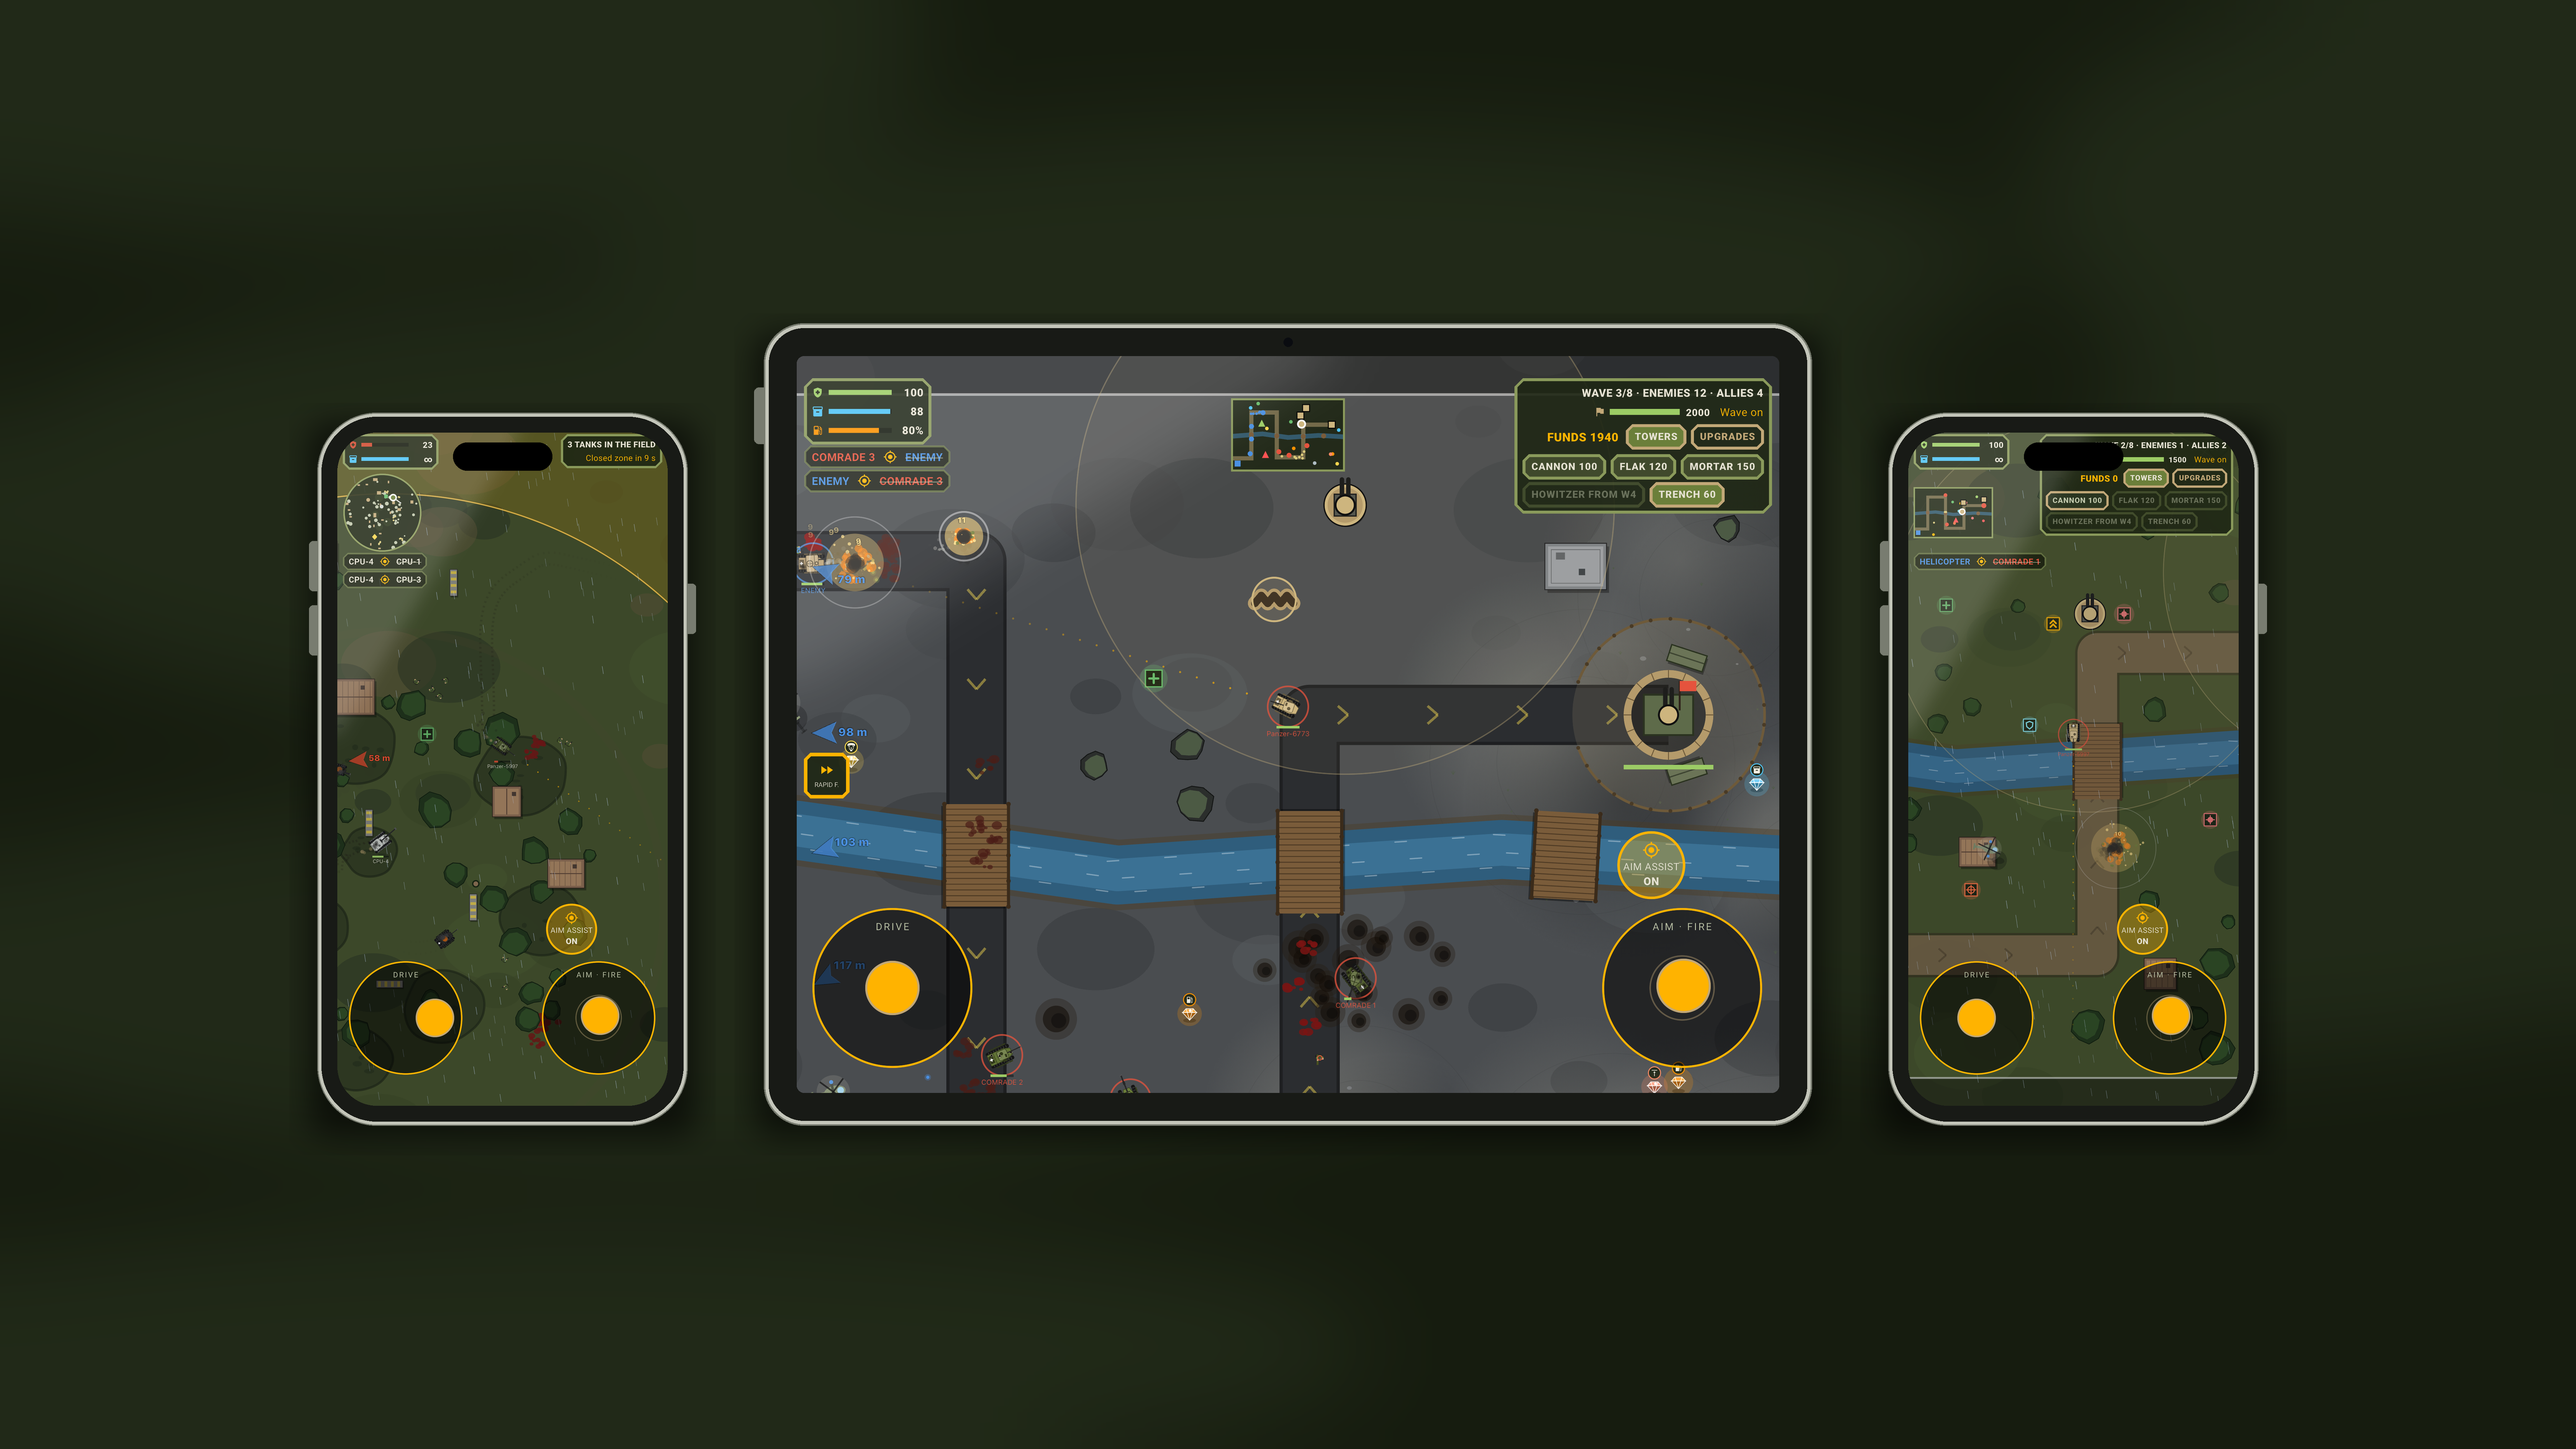
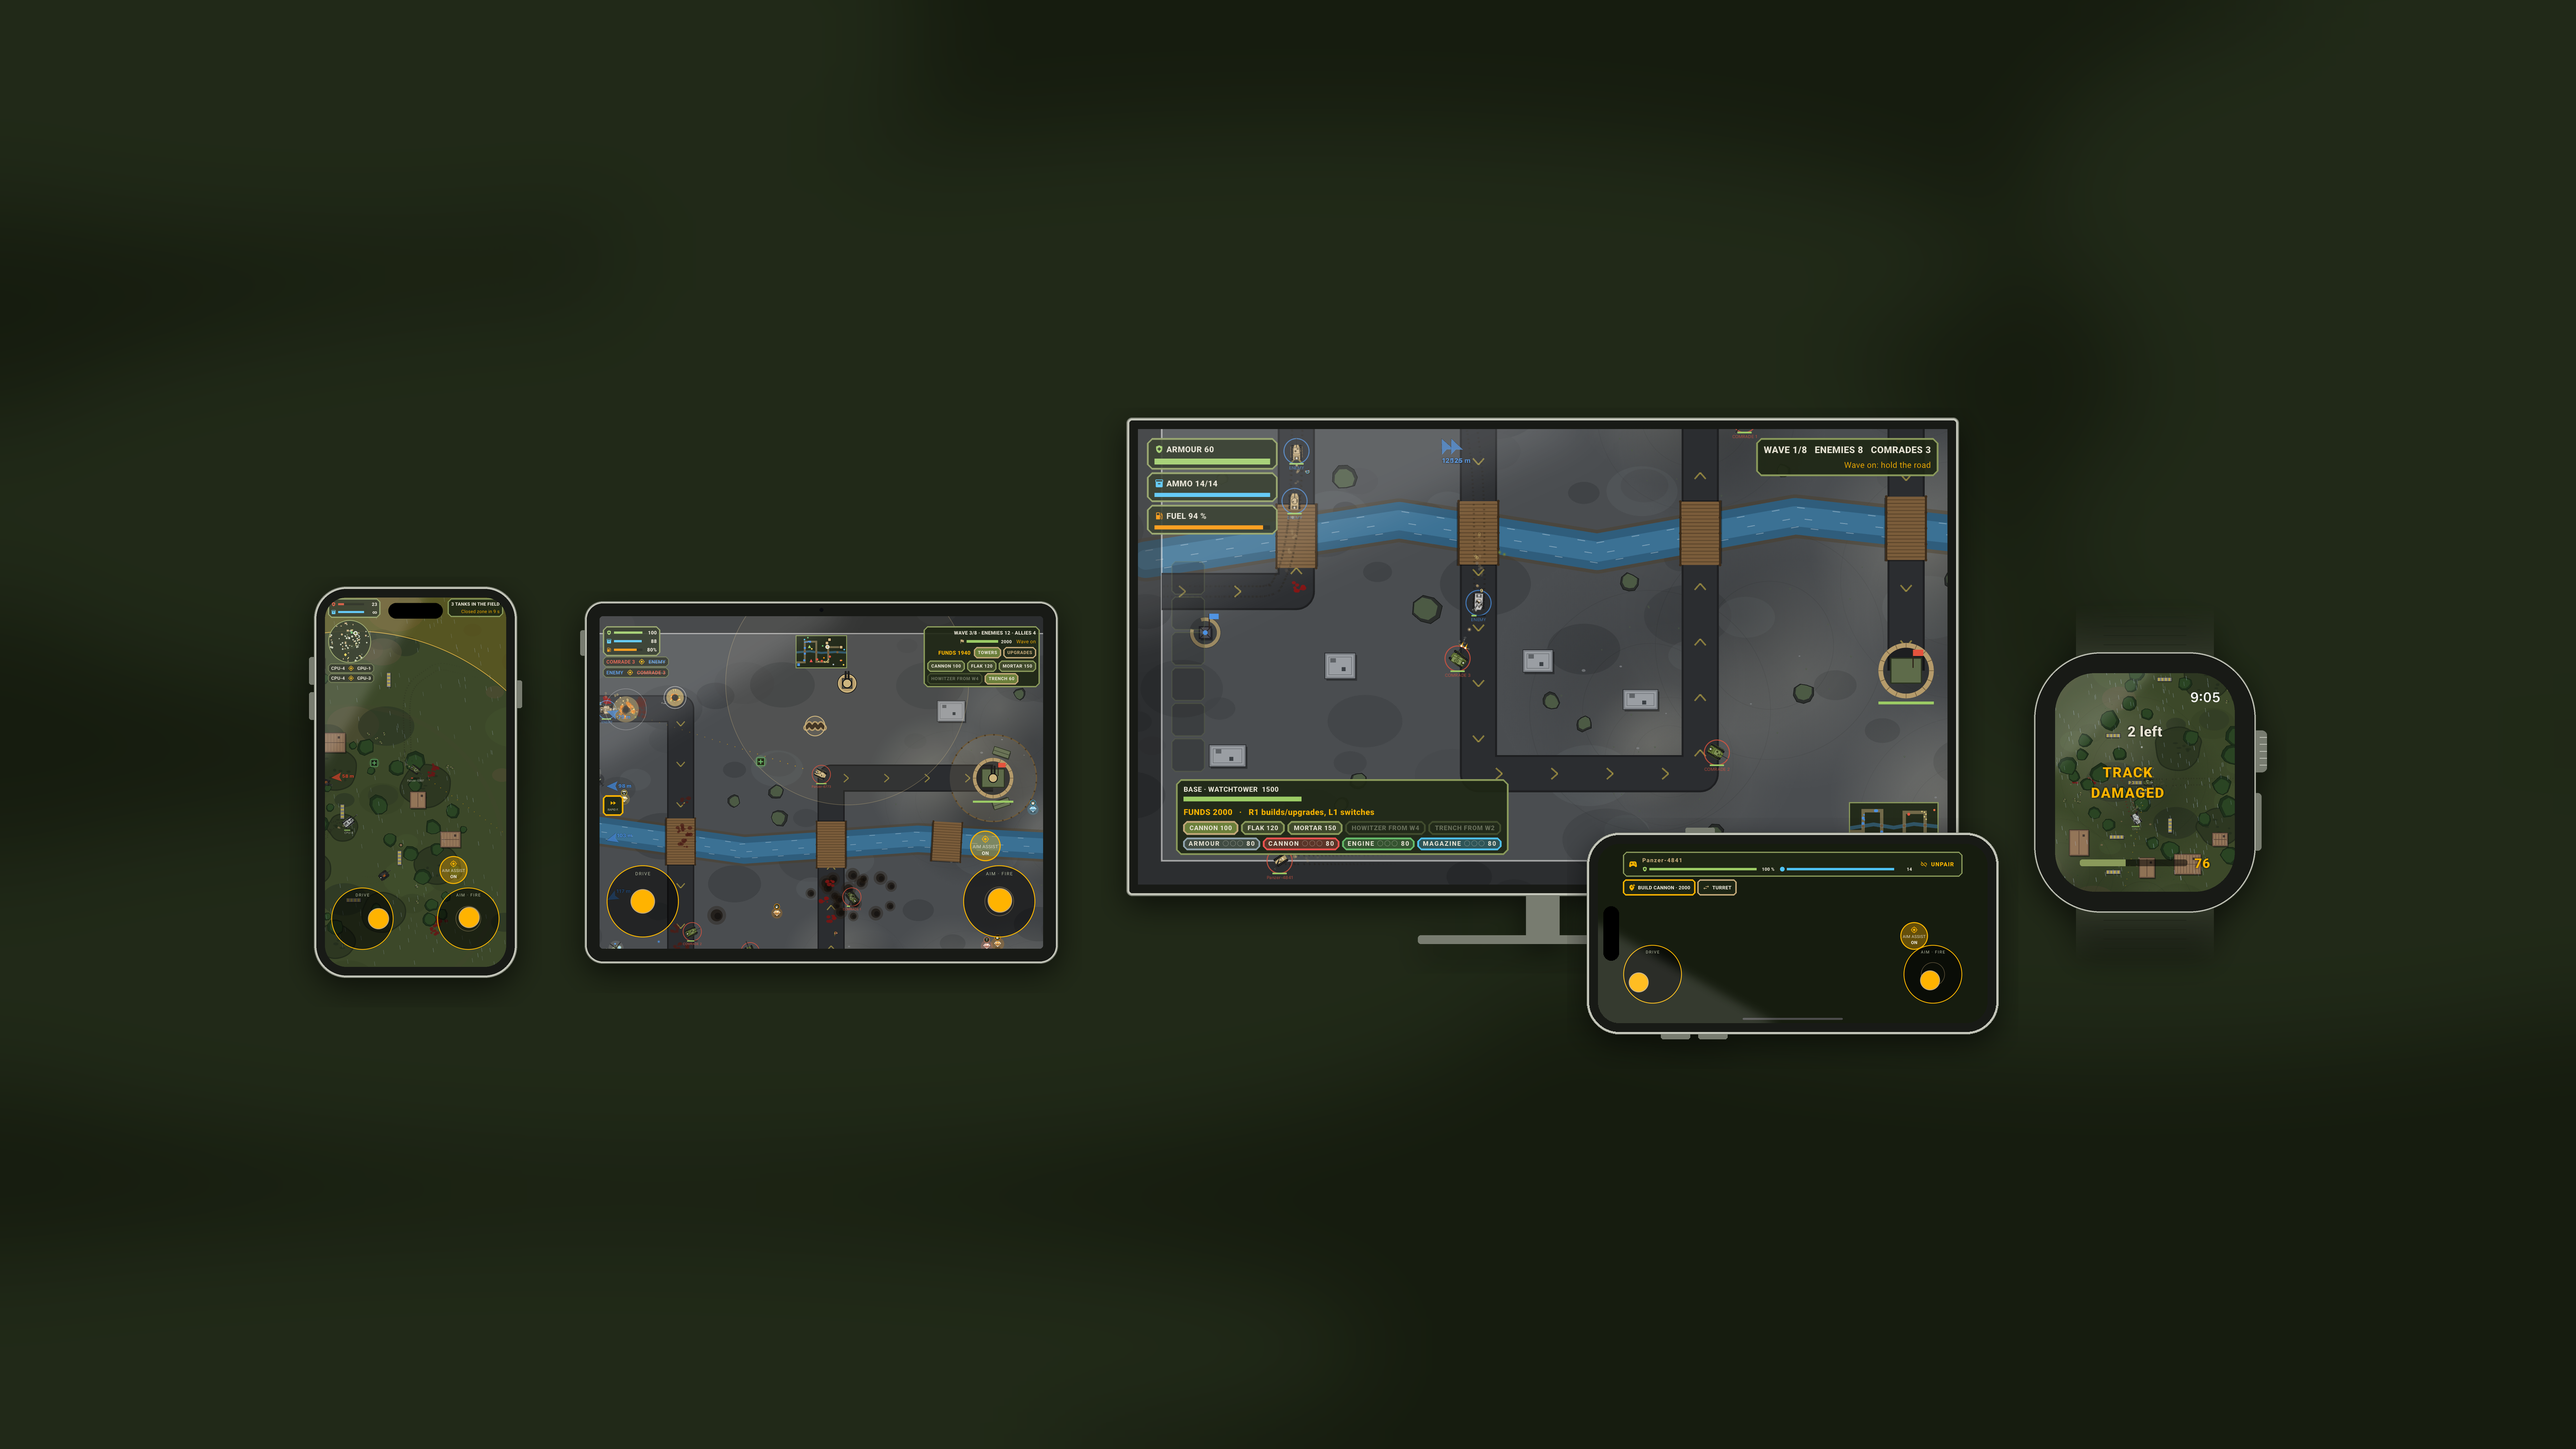
Show every screen the game runs on in the App Store header
The header now shows iPhone, iPad, the Apple TV with a phone in front of it
as the controller, and the watch. Shadows follow the devices, so the faded
watch band leaves no dark box behind. The tvOS runner can ignore the
Simulator's virtual gamepad like the iOS one.

Changed region(s): [[0.0932, 0.2183, 0.9014, 0.7797]]

diff --git a/tvos/Runner/GamepadPlugin.swift b/tvos/Runner/GamepadPlugin.swift
@@ -97,6 +97,12 @@ class GamepadPlugin: NSObject, FlutterPlugin, FlutterStreamHandler {
   /// Remote after them: the first one steers alone, the first two play a
   /// duel.
   private static func ordered() -> [GCController] {
+    // The Simulator brings a virtual gamepad of its own, which takes the
+    // first seat. With the user default ignoreGamepads set (store
+    // screenshots) the app plays as if none were there.
+    if UserDefaults.standard.bool(forKey: "ignoreGamepads") {
+      return []
+    }
     let all = GCController.controllers()
     return all.filter { $0.extendedGamepad != nil }
       + all.filter { $0.extendedGamepad == nil && $0.microGamepad != nil }

diff --git a/store/tool/compose.py b/store/tool/compose.py
@@ -184,8 +184,8 @@ def device(shot, height, kind):
     """Draws [shot] inside an illustrated [kind] ("phone", "tablet" or
     "watch"): a dark body with a metal edge, its buttons and a soft gloss on
     the glass, scaled so the whole device is [height] tall."""
-    bezel = {"phone": 0.022, "tablet": 0.035, "watch": 0.075}[kind]
-    rounding = {"phone": 0.16, "tablet": 0.05, "watch": 0.30}[kind]
+    bezel = {"phone": 0.022, "tablet": 0.035, "watch": 0.075, "tv": 0.018}[kind]
+    rounding = {"phone": 0.16, "tablet": 0.05, "watch": 0.30, "tv": 0.012}[kind]
     rim = max(4, round(height * 0.006))
     pad = round(height * bezel)
     screen_h = height - 2 * (pad + rim)
@@ -194,7 +194,8 @@ def device(shot, height, kind):
     # Room beside the body for the buttons, above and below for the band.
     knob = round(body_w * 0.05) if kind == "watch" else rim * 2
     band = round(body_h * 0.18) if kind == "watch" else 0
-    out = Image.new("RGBA", (body_w + 2 * knob, body_h + 2 * band))
+    stand = round(body_h * 0.10) if kind == "tv" else 0
+    out = Image.new("RGBA", (body_w + 2 * knob, body_h + 2 * band + stand))
     d = ImageDraw.Draw(out)
     ox, oy = knob, band
     radius = round(min(body_w, body_h) * rounding)
@@ -231,6 +232,15 @@ def device(shot, height, kind):
         d.rounded_rectangle(
             (ox + body_w - knob, sy, ox + body_w + knob // 2,
              sy + round(body_h * 0.22)), knob // 3, fill=METAL)
+    elif kind == "tv":
+        # A slim foot below the screen.
+        fw, fx = round(body_w * 0.30), ox + round(body_w * 0.35)
+        neck = round(body_w * 0.04)
+        d.rectangle((ox + (body_w - neck) // 2, oy + body_h - rim,
+                     ox + (body_w + neck) // 2, oy + body_h + stand - rim * 2),
+                    fill=METAL)
+        d.rounded_rectangle((fx, oy + body_h + stand - rim * 3, fx + fw,
+                             oy + body_h + stand - 1), rim, fill=METAL)
     else:
         # Volume and power buttons on the edges.
         for x0, ys in (
@@ -344,6 +354,16 @@ def load_shot(raw_dir, lang, name):
     return shot
 
 
+def drop_shadow(canvas, img, x, top):
+    """A soft shadow below [img] at x, top. It follows the device itself,
+    not its bounding box, so a watch band fading out leaves no dark box."""
+    shadow = Image.new("RGBA", (img.width + 80, img.height + 80))
+    alpha = img.getchannel("A").point(lambda a: a * 150 // 255)
+    shadow.paste(Image.new("RGBA", img.size, (0, 0, 0, 255)), (40, 40), alpha)
+    shadow = shadow.filter(ImageFilter.GaussianBlur(30))
+    canvas.paste(shadow, (x - 40, top - 20), shadow)
+
+
 def row(canvas, framed, offsets):
     """Lays [framed] side by side, centred, each moved down by its offset."""
     w, h = canvas.size
@@ -358,28 +378,16 @@ def row(canvas, framed, offsets):
         offsets = [round(o * scale) for o in offsets]
         total = sum(img.width for img in framed) + gap * (len(framed) - 1)
     x = (w - total) // 2
+    boxes = []
     for img, offset in zip(framed, offsets):
         top = (h - img.height) // 2 + offset
-        shadow = Image.new("RGBA", (img.width + 80, img.height + 80))
-        ImageDraw.Draw(shadow).rounded_rectangle(
-            (40, 40, img.width + 40, img.height + 40), 40, fill=(0, 0, 0, 150))
-        shadow = shadow.filter(ImageFilter.GaussianBlur(30))
-        canvas.paste(shadow, (x - 40, top - 20), shadow)
+        # The shadow follows the device itself, not its bounding box, so a
+        # watch band fading out leaves no dark box behind.
+        drop_shadow(canvas, img, x, top)
         canvas.paste(img, (x, top), img)
+        boxes.append((x, top, img.width, img.height))
         x += img.width + gap
-
-
-def header(lang, size, raw_dir):
-    """The product page header: the iPad between two iPhones."""
-    w, h = size
-    canvas = backdrop(size, f"header-{w}")
-    side = round(h * 0.64)
-    row(canvas, [
-        device(load_shot(raw_dir, lang, "i_battle"), side, "phone"),
-        device(load_shot(raw_dir, lang, "p_defense"), round(h * 0.72), "tablet"),
-        device(load_shot(raw_dir, lang, "i_guns"), side, "phone"),
-    ], [round(h * 0.04), 0, round(h * 0.04)])
-    save(canvas, ROOT / "store" / "ios" / "header" / lang / f"header-{w}x{h}")
+    return boxes
 
 
 def search_header(lang, size, raw_dir):
@@ -393,6 +401,35 @@ def search_header(lang, size, raw_dir):
         device(load_shot(raw_dir, lang, "w_battle"), round(h * 0.40), "watch"),
     ], [0, 0, 0])
     save(canvas, ROOT / "store" / "ios" / "header" / lang / f"search-{w}x{h}")
+
+
+def landscape_phone(shot, height):
+    """[shot] of a phone held sideways, in the drawn frame of [device]."""
+    upright = device(shot.rotate(-90, expand=True), round(
+        height * shot.width / shot.height), "phone")
+    return upright.rotate(90, expand=True)
+
+
+def header(lang, size, raw_dir):
+    """The product page header, every screen the game runs on: iPhone, iPad,
+    the Apple TV with a phone in front of it as the controller, and the
+    watch."""
+    w, h = size
+    canvas = backdrop(size, f"header-{w}")
+    boxes = row(canvas, [
+        device(load_shot(raw_dir, lang, "i_battle"), round(h * 0.54), "phone"),
+        device(load_shot(raw_dir, lang, "p_defense"), round(h * 0.50), "tablet"),
+        device(load_shot(raw_dir, lang, "tv_defense"), round(h * 0.66), "tv"),
+        device(load_shot(raw_dir, lang, "w_battle"), round(h * 0.36), "watch"),
+    ], [round(h * 0.08), round(h * 0.08), -round(h * 0.06), round(h * 0.08)])
+    tx, ty, tw, th = boxes[2]
+    phone = landscape_phone(load_shot(raw_dir, lang, "pad"), round(th * 0.36))
+    px = tx + tw - phone.width + round(tw * 0.04)
+    py = min(ty + th - round(phone.height * 0.55),
+             h - phone.height - round(h * 0.05))
+    drop_shadow(canvas, phone, px, py)
+    canvas.paste(phone, (px, py), phone)
+    save(canvas, ROOT / "store" / "ios" / "header" / lang / f"header-{w}x{h}")
 
 
 # Apple Watch shots go up as the simulator took them (422 x 514, Ultra 3 and

diff --git a/store/ios/README.md b/store/ios/README.md
@@ -22,7 +22,7 @@ in App Store Connect einfügen.
 | iPhone 6,3" (1206 × 2622), Pflichtfeld „iPhone mit Dynamic Island“ | `screenshots/<sprache>/iphone63-*.png` |
 | iPad 13" (2752 × 2064) | `screenshots/<sprache>/ipad-*.png` |
 | Apple Watch Ultra 4 (422 × 514), von Hand hochladen | `watch/<sprache>/watch-*.png` |
-| Kopfzeile, Tab „Kopfzeile“ (5244 × 2950 und 3840 × 1646), von Hand hochladen | `header/<sprache>/header-*.png`: iPad zwischen zwei iPhones |
+| Kopfzeile, Tab „Kopfzeile“ (5244 × 2950 und 3840 × 1646), von Hand hochladen | `header/<sprache>/header-*.png`: iPhone, iPad, Apple TV mit Handy als Controller davor, Watch |
 | Kopfzeile, Tab „Suchergebnisse“ (dieselben Größen), von Hand hochladen | `header/<sprache>/search-*.png`: iPhone, iPad und Watch nebeneinander |
 
 `<sprache>` ist `de-DE` oder `en-US`. Watch-Bilder und Kopfzeile liegen
@@ -59,7 +59,12 @@ Handy ohne Controller:
 
 ```sh
 xcrun simctl launch <sim-id> de.regetskcob.wargame -ignoreGamepads YES
+xcrun simctl spawn <apple-tv-sim-id> defaults write de.regetskcob.wargame ignoreGamepads -bool YES
 ```
+
+Der Apple-TV-Simulator nimmt ohne Simulator.app keine Fernbedienung an; für
+die TV-Aufnahmen öffnet ein lokal geänderter Build die Kopplung selbst und
+startet die Runde, sobald das Handy gekoppelt ist.
 
 Daraus entstehen beide Sprachsätze für App Store und Google Play:
 
